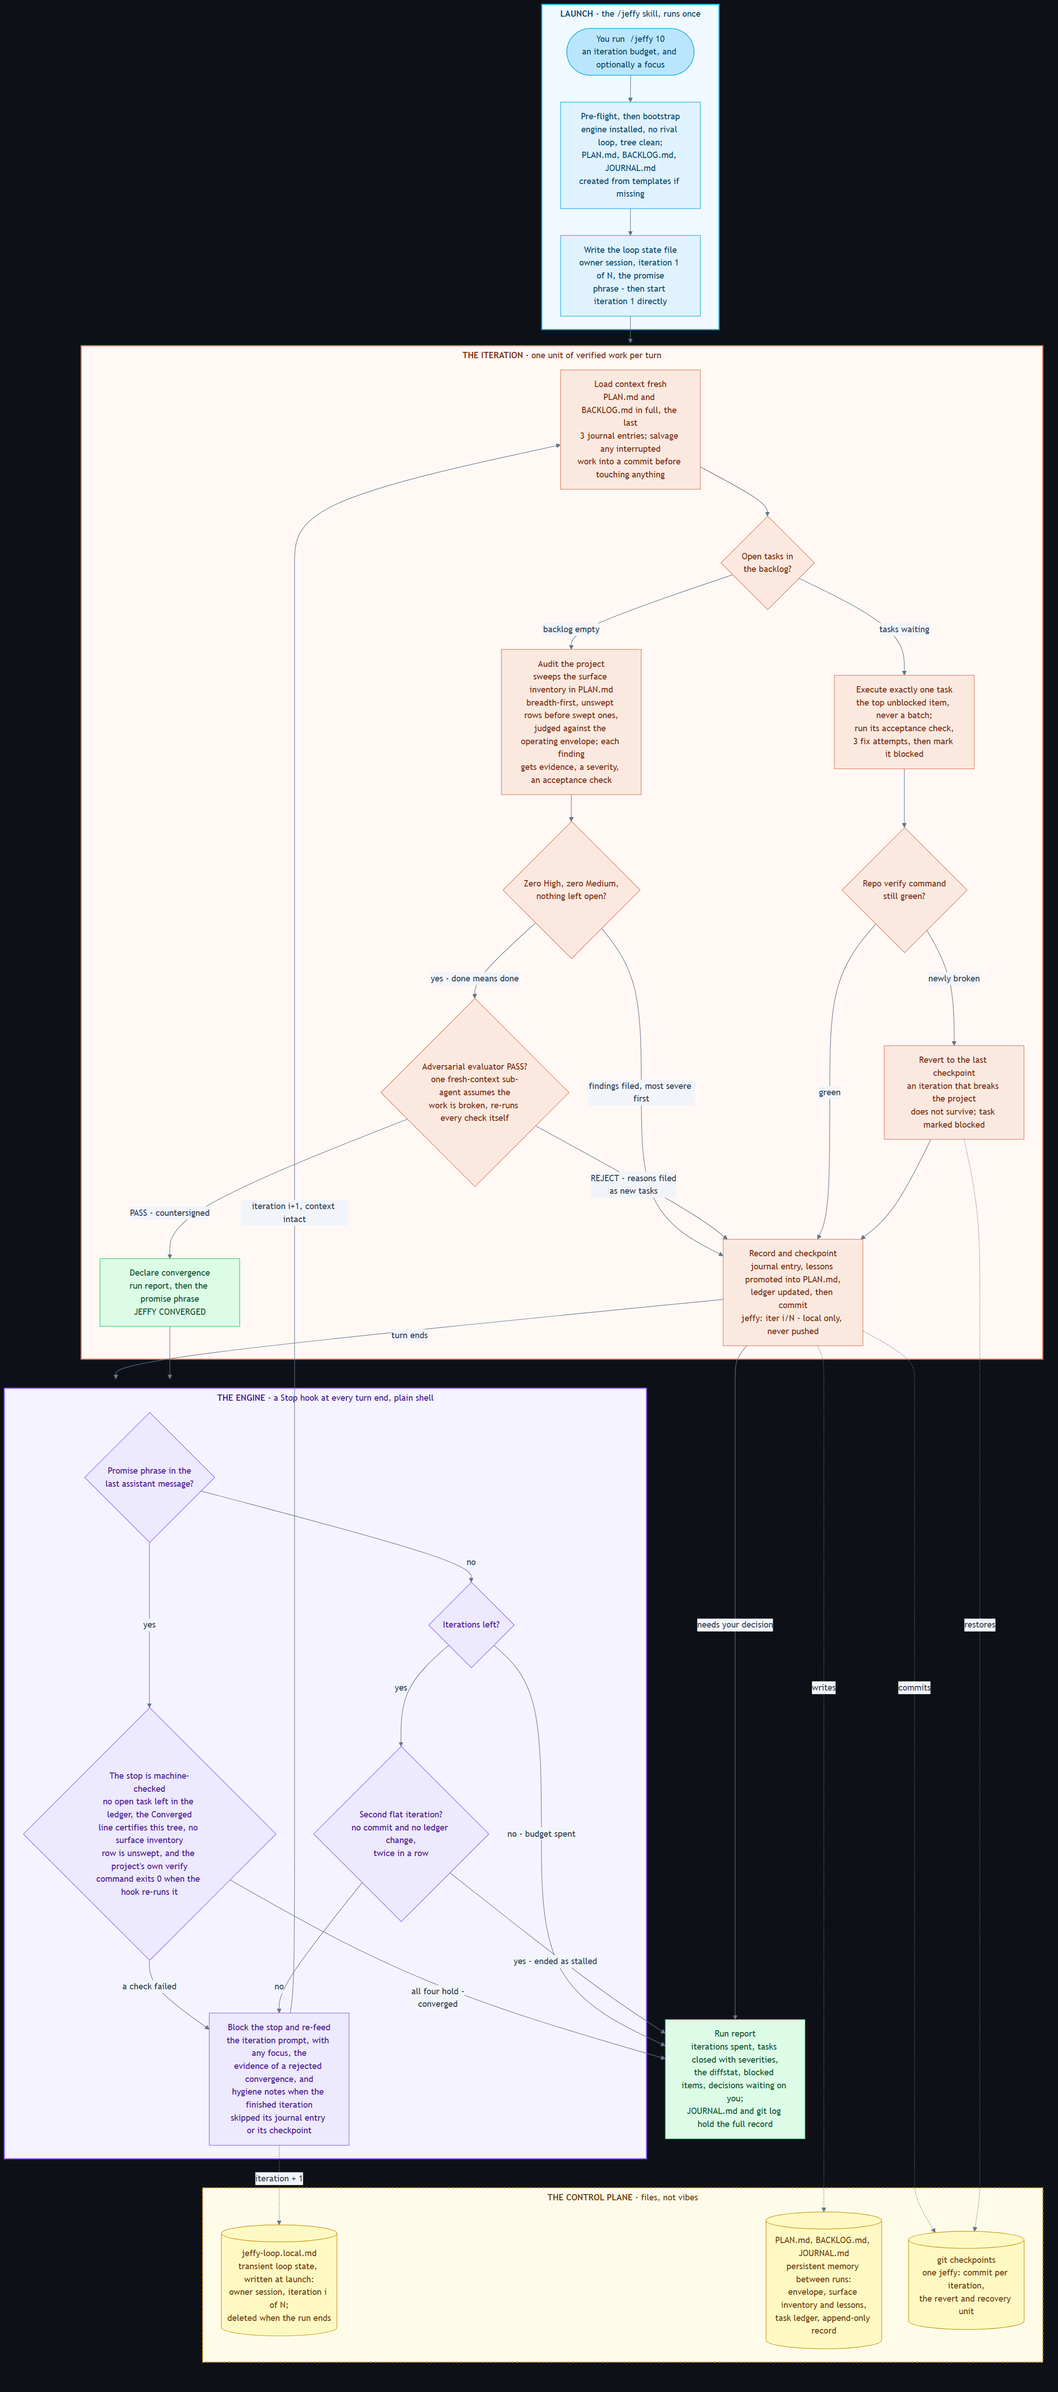
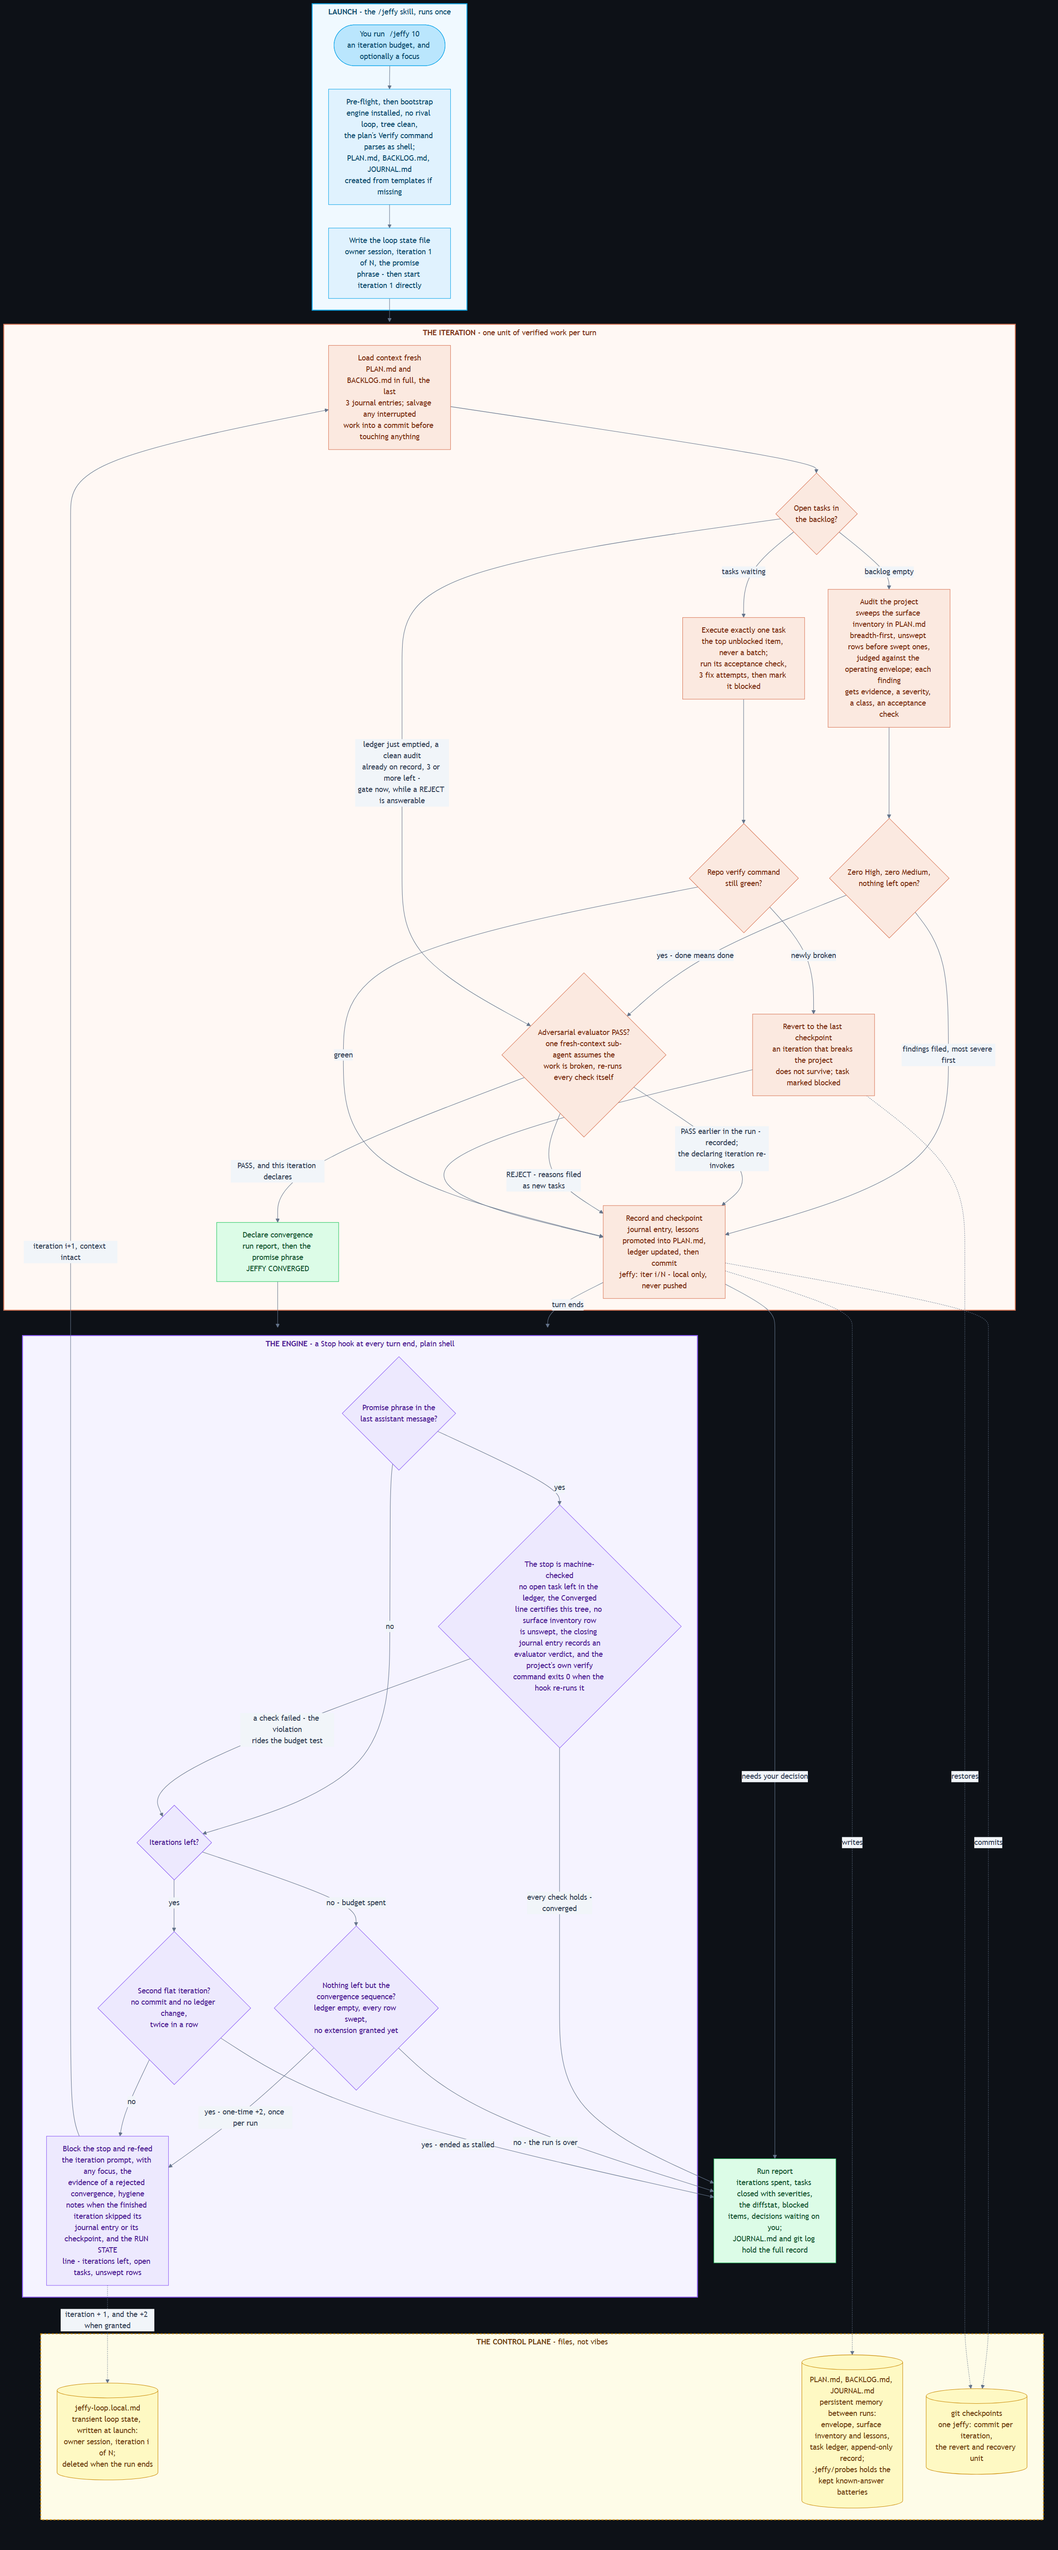
v1.5.0 phase 5: README and flowchart tell the truth about the new engine
The README's Why Jeffy bullets gain the early evaluator gate with its
preconditions and cap of 3, the machine-checked verdict at the stop,
the one-time +2 closing extension, priced Declined, and the [~]
unreachable-surface disclosure; the rules section gains RUN STATE
telemetry, kept probe batteries under .jeffy/probes/, and the class
token; Good to know explains the committed .jeffy/ directory; the
behavioural-scenario list drops the deleted bare first-line parser
shape and describes the two new gate families; the stale audit-rows
exception leaves the receipts intro; the checks count reads 116, the
real number. The flowchart is redrawn for the v1.5.0 flow - early
gate branch, extension junction at the budget test, verdict check at
the stop - and both PNGs re-rendered at 3x, light fills in both
themes.

Claude-Session: https://claude.ai/code/session_01KRXkPGk4iFpCr2QQjJ8pJM

diff --git a/README.md b/README.md
@@ -68,11 +68,11 @@ Jeffy Loop descends from Geoffrey Huntley's [Ralph technique](https://ghuntley.c
 
 - **It doesn't invent problems.** Severity is judged against a declared operating envelope - your project's real input surfaces, not imagined attackers. Out-of-envelope findings can't inflate the backlog, and only you can widen the envelope: the loop files a proposal and moves on.
 
-- **Done means done.** The loop converges only when a full fresh audit finds zero High and zero Medium findings *and* the backlog is empty - every Low fixed, declined with a reason, or blocked with its reason on record. A **surface inventory** bounds the claim: the first audit maps the whole public surface into a checkbox table and probes it breadth-first, every sweep records the commit it certified, and clean scores claim only examined rows - "no findings" can never quietly mean "nowhere looked". Once one audit comes back clean, the loop stops auditing and finishes the backlog, so a tail of Lows cannot keep it busy forever.
+- **Done means done.** The loop converges only when a full fresh audit finds zero High and zero Medium findings *and* the backlog is empty - every Low fixed, declined with a reason, or blocked with its reason on record. Declining is priced, not felt: a Low outside the shipped runtime whose fix plus its regression test will not fit inside one iteration is declined as `cost: exceeds one iteration` and named by ID in the run report, so polish cannot quietly eat a budget. A **surface inventory** bounds the claim: the first audit maps the whole public surface into a checkbox table and probes it breadth-first, every sweep records the commit it certified, and clean scores claim only examined rows - "no findings" can never quietly mean "nowhere looked". Surface this host genuinely cannot reach is marked `- [~]` with its reason and named in the run report, disclosed rather than counted as swept. Once one audit comes back clean, the loop stops auditing and finishes the backlog, so a tail of Lows cannot keep it busy forever.
 
-- **Convergence needs a second signature.** An agent grading its own work praises it. So before the loop may claim convergence, **the adversarial evaluator** - a fresh-context sub-agent carrying none of the run's self-persuasion - re-runs the verify gate and the closed tasks' acceptance checks, hunts for missed findings, and must return PASS. A rejection files its evidence as new tasks; a second ends the run as a hard blocker.
+- **Convergence needs a second signature.** An agent grading its own work praises it. So before the loop may claim convergence, **the adversarial evaluator** - a fresh-context sub-agent carrying none of the run's self-persuasion - re-runs the verify gate and the closed tasks' acceptance checks, hunts for missed findings, and must return PASS. A rejection files its evidence as new tasks; a second ends the run as a hard blocker. The gate fires while its verdict can still be answered - the iteration the ledger first empties with a clean full audit already on the record and three or more iterations left, not only at the finish line, with up to three reviews when that first one lands before the budget's midpoint. And the verdict has to be on the record: the Stop hook refuses a declaration whose closing journal entry carries no evaluator verdict, PASS or a stated `unavailable`.
 
-- **The stop is machine-checked, and the machine is tested.** The Stop hook - plain shell, not a model - refuses the converged stop unless the backlog is empty, the Converged commit still certifies the tree, no inventory row is unswept, and the project's own verify command exits green when the hook re-runs it. A failed check re-feeds the loop with the evidence. The engine itself is held to **75 behavioural checks** in CI, on Linux and Windows.
+- **The stop is machine-checked, and the machine is tested.** The Stop hook - plain shell, not a model - refuses the converged stop unless the backlog is empty, the Converged commit still certifies the tree, no inventory row is unswept, and the project's own verify command exits green when the hook re-runs it. A failed check re-feeds the loop with the evidence, and when the budget expires with the ledger empty and the surface swept - the shape where runs used to die with the work done - the hook grants one +2 closing extension, once per run, so the convergence sequence has room to finish. The engine itself is held to **116 behavioural checks** in CI, on Linux and Windows.
 
 - **It stops on purpose, and it shows its work.** Budget spent, convergence reached, progress stalled, or a decision only you can make - the loop ends itself and says why, instead of burning budget spinning. The run report lists iterations used, tasks closed with severities, the diffstat, anything blocked, and decisions waiting on you; an append-only journal and the checkpoint commits hold the full, greppable record.
 
@@ -80,7 +80,7 @@ Jeffy Loop descends from Geoffrey Huntley's [Ralph technique](https://ghuntley.c
 
 Testing a tool against its own codebase proves little. Jeffy was therefore run against widely-used open-source projects with no connection to this repository. Every run used a local clone, nothing was pushed upstream without a filed issue or PR, and all runs were held to the same rules: evidence before filing, severity judged against a declared operating envelope, and red-green proof that anyone can re-run.
 
-Each receipt below is a full `/jeffy` loop run that converged, except the rows marked *audit*, whose conversions are pending. The standard tightened as the engine matured. The earliest runs converged on a clean closing audit and an empty backlog, later runs under the shell-enforced converged stop, and the most recent under the adversarial evaluator's countersignature. Each receipt states which standard its run met, so none of this requires taking our word for it.
+Each receipt below is a full `/jeffy` loop run that converged. The standard tightened as the engine matured. The earliest runs converged on a clean closing audit and an empty backlog, later runs under the shell-enforced converged stop, and the most recent under the adversarial evaluator's countersignature. Each receipt states which standard its run met, so none of this requires taking our word for it.
 
 Ordered by severity of findings, most severe first.
 
@@ -245,11 +245,14 @@ Each rule is enforced by the iteration prompt, the state files, or the Stop hook
 - **Interrupted work is salvaged, never discarded.** A run that resumes over a dirty tree commits the salvage before touching anything.
 - **Every iteration answers for its hygiene.** Between iterations the hook checks the journal entry (heading grammar, with a run token telling two runs in one session apart), the checkpoint, and that `JOURNAL-archive.md` only ever grows. Violations ride the next re-feed as an ITERATION HYGIENE note.
 - **Stalls end runs before budgets do.** Progress means HEAD moved or `BACKLOG.md` changed. The first flat iteration re-feeds with a STALL note; a second consecutive one ends the run from shell. Without git the ledger signal alone decides.
+- **The hook does the budget arithmetic.** Every re-feed carries a RUN STATE line the engine counts itself - the iteration and how many remain after it, open tasks per section, unswept rows - and once the ledger is empty over a swept surface it adds what the convergence sequence still costs, so a run plans its endgame instead of discovering it at the last iteration.
 
 **Every audit**
 
 - **Audits work from a written map, never from wandering.** The first audit lists the whole public surface as a checkbox inventory in `PLAN.md` and probes it breadth-first before filing anything. Every sweep records the commit it certified, a row reopens when its code changes, dimension scores claim only swept rows, and no run converges while a row is unswept.
 - **Sweeps prove correctness, not liveness.** A row that computes values needs a known answer or a strong invariant - run-without-crashing certifies nothing - and every documented parameter must be shown to change the output at two or more values. A parameter whose value changes nothing is a finding, never a pass.
+- **Instruments are kept, not rebuilt.** A row's known-answer battery lives under `.jeffy/probes/` and the checkpoints commit it, so a re-sweep re-runs the battery instead of reconstructing it, and a battery is updated in the same iteration as the behavior it pins.
+- **Every finding is classed by the files its fix will touch.** Backlog lines carry a class - runtime, test, build-ci, docs, dev-tooling - and a section is ordered by severity first, then runtime ahead of the rest, because shipped behavior is what a user meets and perimeter work is what a run drifts into.
 - **Severity comes from the envelope, never from imagination.** Envelope changes and audit escalations go to the Proposed section of `BACKLOG.md` for your approval - the loop never widens its own mandate.
 - **Changes are made with the map open.** Before touching shared code the loop reads its callers and the tests that pin it and states the contract the change preserves; a change that alters behavior updates the documentation and reopens the affected inventory rows in the same iteration.
 - **The third strike forces structure.** Repeated-idiom fixes must enumerate and cover every sibling site; the third finding sharing one root cause forces a single structural fix or a user decision, never a fourth spot patch.
@@ -257,8 +260,8 @@ Each rule is enforced by the iteration prompt, the state files, or the Stop hook
 **Convergence**
 
 - **Convergence is sticky.** The converged commit is recorded; relaunching on an unchanged tree re-verifies and re-converges in O(1) instead of re-rolling the audit dice. A seeded backlog or a focus directive always gets a real run, and settled defect classes are never re-litigated on unchanged code.
-- **Convergence needs the adversarial evaluator's signature.** One fresh-context sub-agent that assumes the work is broken re-runs the checks itself, bound by the same envelope and evidence rules. At most two reviews per run; a second rejection ends the run; a session that cannot spawn sub-agents records that instead of silently skipping the gate. The ratchet never invokes it.
-- **The converged stop is enforced in shell.** At the promise the Stop hook itself re-checks: no open task, a Converged line whose commit still certifies the tree, no unswept inventory row, and the project's verify command exiting 0, re-run by the hook under a timeout (240s default, `verify_timeout_seconds` to override). Violations block the stop and re-feed the evidence; missing infrastructure fails open with a stderr diagnostic.
+- **Convergence needs the adversarial evaluator's signature.** One fresh-context sub-agent that assumes the work is broken re-runs the checks itself, bound by the same envelope and evidence rules. It runs the iteration the ledger first empties - given a clean full audit on the record and three or more iterations left - while a rejection can still be answered. At most two reviews per run, three when the first landed before the budget's midpoint; a second rejection ends the run, and so does a cap reached with no passing verdict in the closing entry; a session that cannot spawn sub-agents records that instead of silently skipping the gate. The ratchet never invokes it.
+- **The converged stop is enforced in shell.** At the promise the Stop hook itself re-checks: no open task, a Converged line whose commit still certifies the tree, no unswept inventory row, an evaluator verdict recorded in the run's closing journal entry, and the project's verify command exiting 0, re-run by the hook under a timeout (240s default, `verify_timeout_seconds` to override). Violations block the stop and re-feed the evidence; missing infrastructure fails open with a stderr diagnostic.
 
 **Always**
 
@@ -292,6 +295,7 @@ Each rule is enforced by the iteration prompt, the state files, or the Stop hook
 - Budget counts turns, and a single turn is unbounded in time and cost - keep N small on a first run and watch it. Check spend anytime with `/cost`.
 - Prefer several small runs over one big one. Context accumulates across iterations within a run, and the state files carry everything between runs, so two runs of 5 beat one run of 10 - but the clean context only arrives with a new session. Close the session and start a fresh one in the same directory; nothing is lost.
 - Edit `PLAN.md` or `BACKLOG.md` between iterations, not mid-iteration; the Proposed section is the designed channel for decisions.
+- A `.jeffy/` directory appears at the root of a project the loop has swept: it holds the known-answer probe batteries a later sweep re-runs instead of rebuilding, and the checkpoints commit it on purpose - loop memory, exactly like the three state files. Only the transient loop state file is gitignored.
 
 > [!IMPORTANT]
 > **Trust model.** The entire engine is one auditable shell script in this repo (`skills/jeffy/hooks/stop-hook.sh`), registered as a Claude Code Stop hook. It fires at turn end but exits instantly unless the current project has a live Jeffy state file naming that session - zero cost and zero behavior outside a run. The installer's only writes outside this repo are the two skill folders it copies into `~/.claude/skills` (engine included) and that one hook registration in `~/.claude/settings.json`.
@@ -314,7 +318,7 @@ It gates, among other things:
 <summary>The full behavioural scenario list</summary>
 <br>
 
-Both installers run non-interactively against sandboxed profiles (skills and engine must land, and the hook registration must appear exactly once even after a re-run and carry the 600s timeout, whether written fresh or upgraded from an older entry), and the Stop hook itself is exercised through its full lifecycle: mid-budget re-feed, budget exhaustion, completion promise, foreign-session isolation, and the no-state no-op. The gates that guard the converged stop are held to the same standard - an open task, a `Converged` line that no longer certifies the tree, an unswept Surface inventory row, and a verify command that is red, that overruns its timeout, or that is declared `none` each have to produce the right outcome, a fully swept inventory and a pre-inventory `PLAN.md` are both accepted, and the verify parser is proven on both plan shapes, the labelled `Command:` line and the bare first-line form - as are the per-iteration hygiene gates and the fail-open paths for a missing ledger, journal, or plan, a malformed counter, and a moved prompt file. The hygiene gates are proven both ways too: a journal heading that names the session but not the run is rejected and a legacy state file without a run token falls back cleanly, and a rotation that shrinks or deletes `JOURNAL-archive.md` is caught while an appending one passes and a never-rotated project is left alone. The stall gate is proven the same way: progress on either signal stays silent, the first flat iteration draws the STALL note and arms the flag, the second consecutive one ends the run, progress resets the strike, a non-git project stalls out on the ledger signal alone, a project with neither signal skips with a stderr note, and neither budget exhaustion nor a valid promise is disturbed by an armed flag.
+Both installers run non-interactively against sandboxed profiles (skills and engine must land, and the hook registration must appear exactly once even after a re-run and carry the 600s timeout, whether written fresh or upgraded from an older entry), and the Stop hook itself is exercised through its full lifecycle: mid-budget re-feed, budget exhaustion, completion promise, foreign-session isolation, and the no-state no-op. The gates that guard the converged stop are held to the same standard - an open task, a `Converged` line that no longer certifies the tree, an unswept Surface inventory row, and a verify command that is red, that overruns its timeout, or that is declared `none` each have to produce the right outcome, a fully swept inventory and a pre-inventory `PLAN.md` are both accepted, and the verify parser is proven on the one shape the hook executes, the labelled `Command:` line - backticks stripped only when the wrapping pair is unambiguous, an annotated line named as a `bash -n` defect before anything runs, and a section carrying no command skipped with a note rather than run as prose - as are the per-iteration hygiene gates and the fail-open paths for a missing ledger, journal, or plan, a malformed counter, and a moved prompt file. The two newest gates get the same treatment: the closing extension has to be granted once at exact budget exhaustion over an empty ledger and a swept inventory and refused everywhere else - a task still open, a row still unswept, a flag already set, a frontmatter that never closes, an iteration already past its budget - and a declaration must be rejected when its closing entry records no evaluator verdict, accepted on `Evaluator: PASS` or a stated `unavailable`, exempt for a ratchet, and failed open when the journal holds no entry for the run. The hygiene gates are proven both ways too: a journal heading that names the session but not the run is rejected and a legacy state file without a run token falls back cleanly, and a rotation that shrinks or deletes `JOURNAL-archive.md` is caught while an appending one passes and a never-rotated project is left alone. The stall gate is proven the same way: progress on either signal stays silent, the first flat iteration draws the STALL note and arms the flag, the second consecutive one ends the run, progress resets the strike, a non-git project stalls out on the ledger signal alone, a project with neither signal skips with a stderr note, and neither budget exhaustion nor a valid promise is disturbed by an armed flag.
 
 </details>
 
